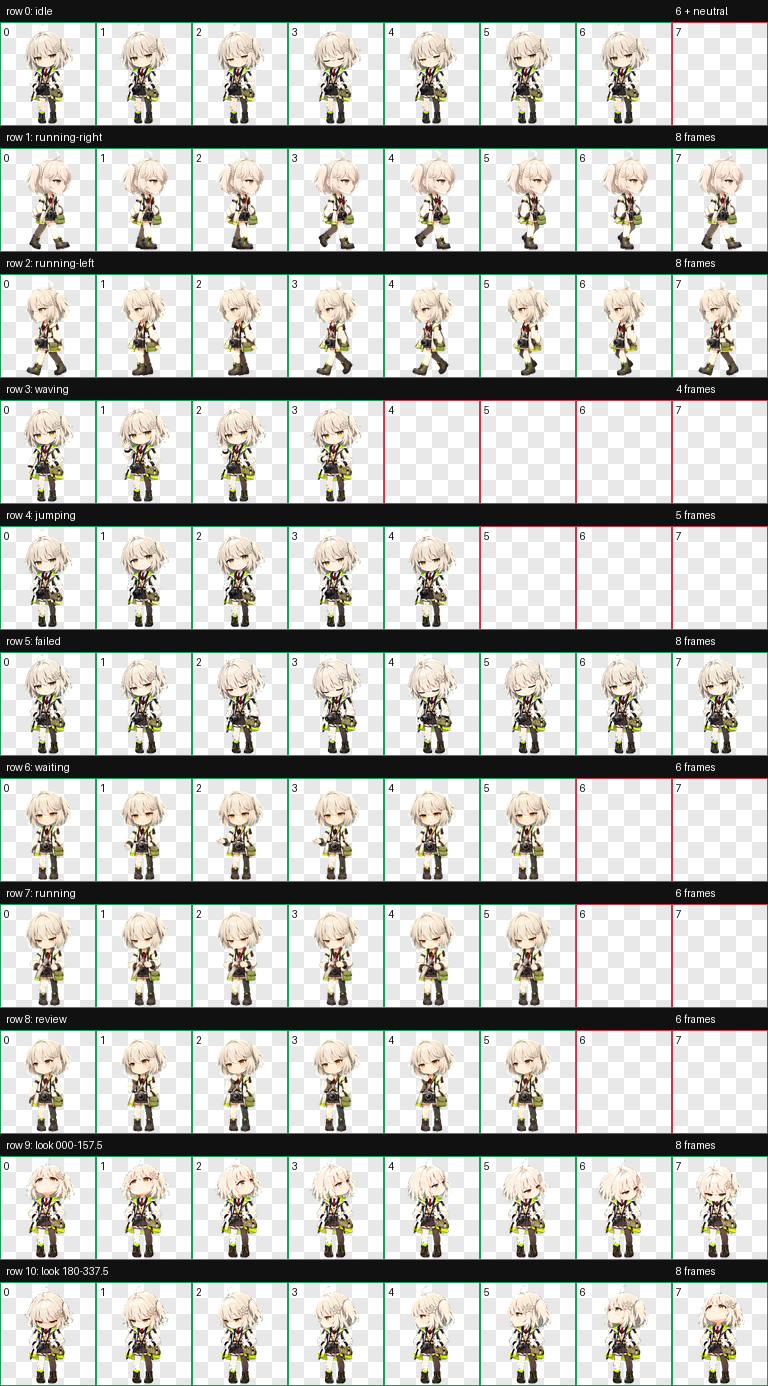
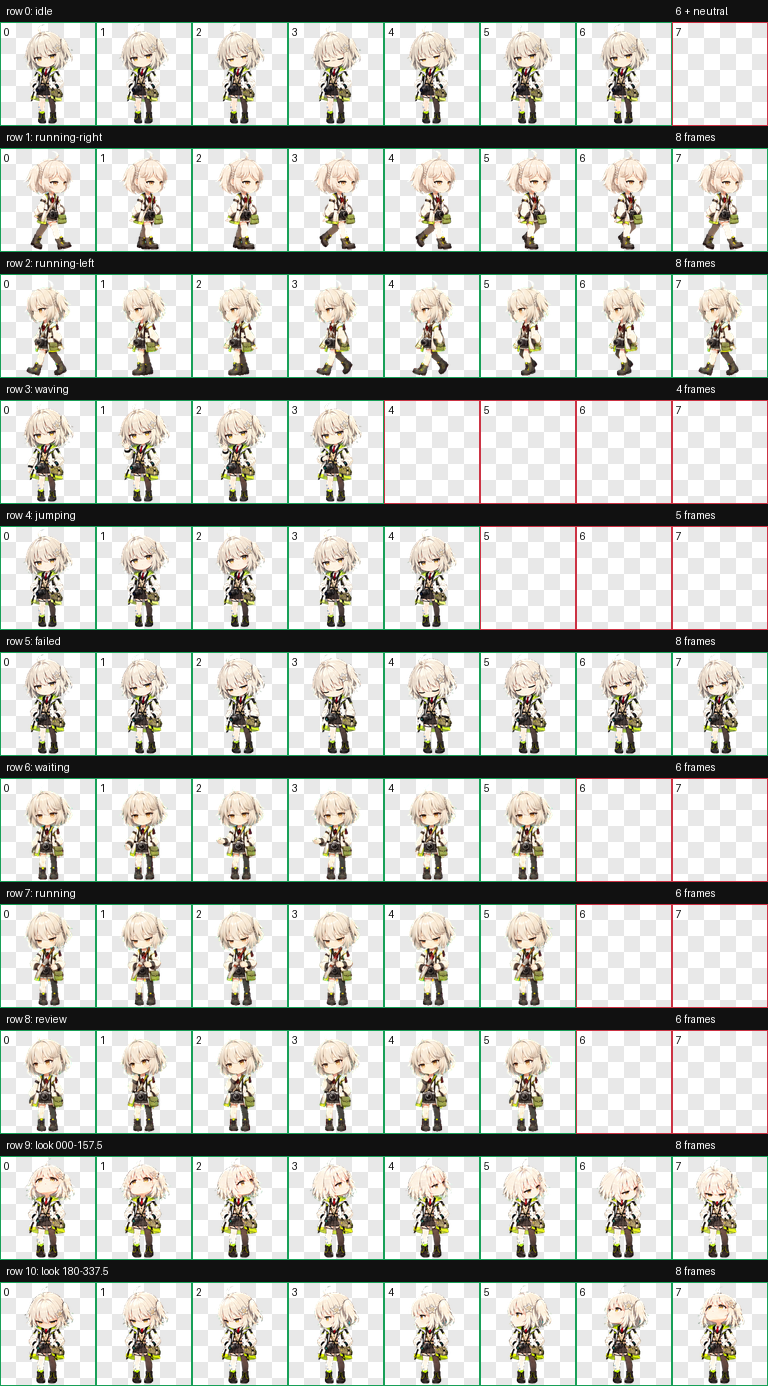
Soften the original Scene right-walking face

diff --git a/scripts/assemble_scene_walk_right.py b/scripts/assemble_scene_walk_right.py
@@ -1,0 +1,98 @@
+"""Register a four-pose right-walk strip in the original pet's right-walk row."""
+
+import argparse
+import hashlib
+import json
+from pathlib import Path
+import statistics
+import subprocess
+import sys
+
+from PIL import Image, ImageDraw
+
+
+def main():
+    parser = argparse.ArgumentParser(description=__doc__)
+    parser.add_argument("atlas", type=Path)
+    parser.add_argument("strip", type=Path)
+    parser.add_argument("output", type=Path)
+    parser.add_argument("--skill-scripts", type=Path, required=True)
+    args = parser.parse_args()
+    sys.path.insert(0, str(args.skill_scripts))
+    from despill_chroma_edges import decontaminate_image
+    from extract_strip_frames import (component_frame_groups, component_group_image,
+                                      remove_chroma_background)
+    from render_animation_previews import ROW_DURATIONS, save_preview
+
+    before = Image.open(args.atlas).convert("RGBA")
+    if before.size != (1536, 2288):
+        raise ValueError("Expected a v2 atlas")
+    key = (0, 255, 255)
+    strip = remove_chroma_background(Image.open(args.strip).convert("RGBA"), key, 96)
+    groups = component_frame_groups(strip, 4)
+    if groups is None:
+        raise ValueError("Expected four separate right-facing poses")
+    poses = [component_group_image(strip, group) for group in groups]
+    poses = [pose.crop(pose.getbbox()) for pose in poses]
+    idle = before.crop((0, 0, 192, 208)).getbbox()
+    assert idle is not None
+    baseline = idle[3]
+    scale = min((baseline - idle[1]) / statistics.median(f.height for f in poses),
+                (baseline - 3) / max(f.height for f in poses))
+
+    frames = []
+    for pose in poses:
+        sprite = pose.resize((round(pose.width * scale), round(pose.height * scale)),
+                             Image.Resampling.LANCZOS)
+        if sprite.width >= 184:
+            raise ValueError("Pose is too wide for its cell")
+        frame = Image.new("RGBA", (192, 208))
+        frame.paste(sprite, ((192 - sprite.width) // 2, baseline - sprite.height))
+        frame, _ = decontaminate_image(frame, chroma_key=key, strength=1,
+                                       edge_radius=5, spill_tolerance=.15)
+        assert frame.getbbox()[3] == baseline
+        frames.append(frame)
+
+    order = (0, 1, 1, 2, 2, 3, 3, 0)
+    atlas = before.copy()
+    for col, index in enumerate(order):
+        atlas.paste(frames[index], (col * 192, 208))
+    output = args.output
+    output.mkdir(parents=True, exist_ok=True)
+    sheet = output / "spritesheet.webp"
+    atlas.save(sheet, lossless=True, exact=True, method=6)
+    encoded = Image.open(sheet).convert("RGBA")
+    assert encoded.tobytes() == atlas.tobytes()
+    changed = [row for row in range(11)
+               if encoded.crop((0, row * 208, 1536, (row + 1) * 208)).tobytes()
+               != before.crop((0, row * 208, 1536, (row + 1) * 208)).tobytes()]
+    assert changed == [1]
+    for script, options in (
+        ("validate_atlas.py", ["--require-v2", "--chroma-key", "#00FFFF",
+                               "--json-out", str(output / "validation.json")]),
+        ("make_contact_sheet.py", ["--output", str(output / "contact-sheet.png")]),
+    ):
+        subprocess.run([sys.executable, str(args.skill_scripts / script), str(sheet), *options],
+                       check=True, stdout=subprocess.DEVNULL)
+    save_preview([frames[i] for i in order], ROW_DURATIONS["running-right"],
+                 output / "running-right.gif")
+    comparison = Image.new("RGB", (768, 440), "#303640")
+    label = ImageDraw.Draw(comparison)
+    for row, (name, version) in enumerate((("Before", before), ("After", encoded))):
+        label.text((6, 220 * row + 4), name, fill="white")
+        for slot, col in enumerate((0, 1, 3, 5)):
+            frame = version.crop((col * 192, 208, (col + 1) * 192, 416))
+            comparison.paste(frame, (slot * 192, 220 * row + 10), frame)
+    comparison.save(output / "face-comparison.png")
+    report = {
+        "changed_rows": changed,
+        "frame_source_order": order,
+        "baseline": baseline,
+        "before_rgba_sha256": hashlib.sha256(before.tobytes()).hexdigest(),
+        "after_rgba_sha256": hashlib.sha256(encoded.tobytes()).hexdigest(),
+    }
+    (output / "walk-right-face.json").write_text(json.dumps(report, indent=2) + "\n", encoding="utf-8")
+
+
+if __name__ == "__main__":
+    main()
